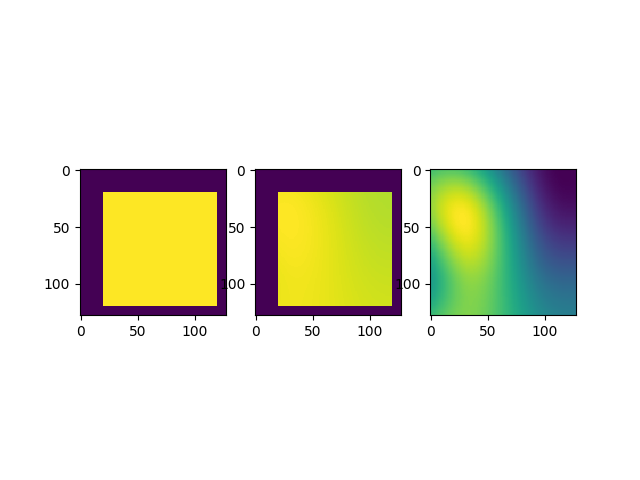
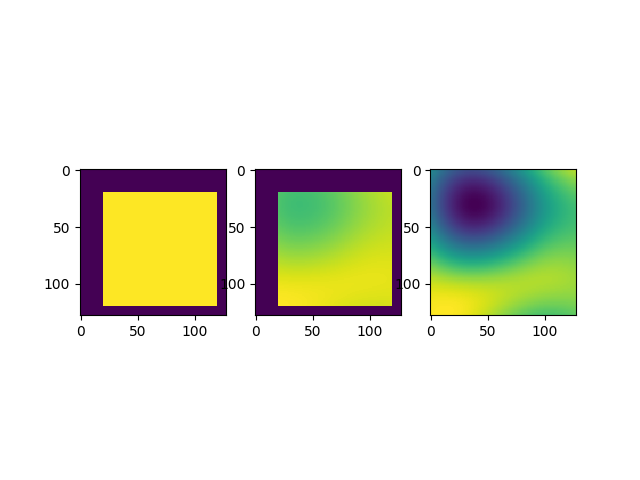
optimize code

Changed region(s): [[0.6562, 0.3438, 0.9062, 0.6562], [0.4375, 0.375, 0.5938, 0.5938], [0.5625, 0.5312, 0.625, 0.5938]]

diff --git a/adv_bias.py b/adv_bias.py
@@ -3,7 +3,8 @@ import torch.nn.functional as F
 import numpy as np
 
 from adv_transformation_base import AdvTransformBase 
-from utils import rescale_intensity
+
+
 
 def bspline_kernel_2d(sigma=[1, 1], order=2, asTensor=False, dtype=torch.float32, device='gpu'):
     '''
@@ -43,9 +44,11 @@ class AdvBias(AdvTransformBase):
                  'interpolation_order':3,
                  'init_mode':'gaussian',
                  'space':'log'},
+                 power_iteration=False,
                  use_gpu:bool = True, debug: bool = False):
         super(AdvBias, self).__init__(config_dict=config_dict,use_gpu=use_gpu,debug=debug)
         self.param=None
+        self.power_iteration=power_iteration
 
     def init_config(self,config_dict):
         '''
@@ -85,24 +88,22 @@ class AdvBias(AdvTransformBase):
         self.param,self.interp_kernel,self.bias_field = self.init_bias_field()
         return self.param
 
+    def train(self):
+        self.is_training = True
+        if self.power_iteration: 
+            self.param = self.unit_normalize(self.param.data)
+        self.param = torch.nn.Parameter(self.param.data, requires_grad=True)
 
-
-    def make_small_parameters(self):
-        self.param = self.unit_normalize(self.param, p_type ='l2')*self.xi
-        self.param = self.param.detach()
-        self.param.requires_grad=True
-        return self.param
-
-    def rescale_parameters(self,power_iteration=False):
+    def rescale_parameters(self):
         ## restrict control points values in the 1-ball space
-        self.param=self.unit_normalize(self.param, p_type ='l2')*self.epsilon
-    
-    def optimize_parameters(self,power_iteration=False, step_size=1):
-        if self.debug: print ('optimize bias')
-        grad = self.unit_normalize(self.param.grad,p_type ='l2')
-        if power_iteration:
+        self.param=self.unit_normalize(self.param, p_type ='l2')
+
+    def optimize_parameters(self,step_size=1):
+        if self.power_iteration:
+            grad = self.unit_normalize(self.param.grad,p_type ='l2')
             self.param = grad.clone().detach()
         else:
+            grad = self.unit_normalize(self.param.grad,p_type ='l2')
             ## Gradient ascent
             self.param = self.param +step_size*grad.detach()
             self.param = self.param.clone().detach()
@@ -119,10 +120,12 @@ class AdvBias(AdvTransformBase):
         tensor: transformed images
         '''
         assert self.param is not None, 'init param before transform data'
-        
-        bias_field = self.compute_smoothed_bias(self.param)    
-        # disable it in new version, where the magnitude is purely controlled by the cpoints themselves
-        # bias_field = self.rescale_bias(bias_field,magnitude=self.epsilon)
+        if self.is_training and self.power_iteration:
+            bias_field = self.compute_smoothed_bias(self.xi*self.param)    
+        else:
+            bias_field = self.compute_smoothed_bias(self.param)
+            bias_field = self.rescale_bias(bias_field,self.epsilon)
+
         self.bias_field =bias_field
         self.diff=bias_field
 
@@ -131,6 +134,7 @@ class AdvBias(AdvTransformBase):
             bias_field = bias_field.expand(data.size())
 
         transformed_input = bias_field*data
+    
         if self.debug:
             print ('bias transformed',transformed_input.size())
         return transformed_input
@@ -178,14 +182,9 @@ https://github.com/airlab-unibas/airlab/blob/1a715766e17c812803624d95196092291fa
         
          # initialize control points parameters for optimization
         if mode == 'gaussian':
-            self.param = torch.ones(*self.cp_grid).normal_(mean=0,std=1)
-          
-        # elif mode =='random':
-        #     ## diff to the identity 
-        #     if self.use_log:
-        #         raise NotImplementedError
-        #     else:
-        #         self.param=(torch.rand(*self.cp_grid)*2-1)*self.magnitude
+            self.param = torch.ones(*self.cp_grid).normal_(mean=0,std=0.5) ##
+        elif mode =='random':
+            self.param=(torch.rand(*self.cp_grid)*2-1)*0.5 ## -eps,eps
             
         elif mode == 'identity':
             ## static initialization, bias free
@@ -193,7 +192,7 @@ https://github.com/airlab-unibas/airlab/blob/1a715766e17c812803624d95196092291fa
         else:
             raise  NotImplementedError
         
-        self.param = self.unit_normalize(self.param, p_type ='l2')*self.epsilon
+        self.param = self.unit_normalize(self.param, p_type ='l2')
         self.param = self.param.to(dtype=self._dtype, device=self._device)
 
         # convert to integer
@@ -206,7 +205,7 @@ https://github.com/airlab-unibas/airlab/blob/1a715766e17c812803624d95196092291fa
         self.interp_kernel=self.get_bspline_kernel(order=self.order, spacing=self.spacing)
         self.interp_kernel=self.interp_kernel.to(self.param.device)
         self.bias_field = self.compute_smoothed_bias(self.param,padding=self._padding,stride=self._stride)
-        # self.bias_field = self.rescale_bias(self.bias_field)        
+        self.bias_field = self.rescale_bias(self.bias_field,self.epsilon)
         if self.debug:
             print('initialize {} control points'.format(str(self.param.size())))
       
@@ -236,7 +235,7 @@ https://github.com/airlab-unibas/airlab/blob/1a715766e17c812803624d95196092291fa
         ## recover bias field to original image resolution for efficiency.
         if self.debug: print ('after intep, size:',bias_field_tmp.size())
         scale_factor_h = self._image_size[0] / bias_field_tmp.size(2)
-        scale_factor_w = self._image_size[0] / bias_field_tmp.size(2)
+        scale_factor_w = self._image_size[1] / bias_field_tmp.size(3)
 
         if scale_factor_h>1 or scale_factor_w>1:
             upsampler = torch.nn.Upsample(scale_factor=(scale_factor_h,scale_factor_w), mode='bilinear',
@@ -252,25 +251,26 @@ https://github.com/airlab-unibas/airlab/blob/1a715766e17c812803624d95196092291fa
 
 
 
-    # def rescale_bias(self,bias_field,magnitude=None):
-    #     """[summary]
-    #     rescale the bias field so that it values fall in [1-magnitude, 1+magnitude]
-    #     Args:
-    #         bias_field ([torch 4d tensor]): [description]
-    #         magnitude ([scalar], optional): [description]. Defaults to use predefined value.
+    def rescale_bias(self,bias_field,magnitude=None):
+        """[summary]
+        rescale the bias field so that it values fall in [1-magnitude, 1+magnitude]
+        Args:
+            bias_field ([torch 4d tensor]): [description]
+            magnitude ([scalar], optional): [description]. Defaults to use predefined value.
 
-    #     Returns:
-    #         [type]: [description]
-    #     """
-    #     if magnitude is None:
-    #         magnitude=self.magnitude
-    #     assert magnitude>0
+        Returns:
+            [type]: [description]
+        """
+        if magnitude is None:
+            magnitude=self.magnitude
+        assert magnitude>0
 
-    #     bias_field =rescale_intensity(bias_field,1-magnitude,1+magnitude)
-
-    #     if self.debug:
-    #         print('L_infinity: max|bias-id|', torch.max(torch.abs(bias_field-1)))
-    #     return bias_field
+        # bias_field =1+magnitude*self.unit_normalize(bias_field-1, p_type ='Infinity')
+        bias = bias_field-1
+        bias_field = 1+torch.clamp(bias,-magnitude,magnitude)
+        if self.debug:
+            print('max |bias-id|', torch.max(torch.abs(bias_field-1)))
+        return bias_field
 
 
     def get_bspline_kernel(self,spacing, order=3):

diff --git a/adv_compose_solver.py b/adv_compose_solver.py
@@ -15,7 +15,7 @@ class ComposeAdversarialTransformSolver(object):
                 divergence_weights=[1.0,0.5],use_gpu: bool = True,
                 debug: bool = False,
                 disable_adv_noise = False,
-                if_norm_image=False
+                if_norm_image=False,
                 ):
         '''
         adversarial data augmentation solver
@@ -31,7 +31,6 @@ class ComposeAdversarialTransformSolver(object):
         ## change to your own image normalization functions,by default, rescale images to 0,1 
 
         self.norm_image_fn=rescale_intensity
-
     
         
     def adversarial_training(self,data,model,init_output=None,lazy_load=False,n_iter=1, optimization_mode='chain',
@@ -367,10 +366,8 @@ class ComposeAdversarialTransformSolver(object):
     
     
     def get_init_output(self,model,data):
-        model.eval()
         with torch.no_grad():
             reference_output = model(data)
-        model.train()
         return reference_output
     
     def backward(self,data,chain_of_transforms=None):
